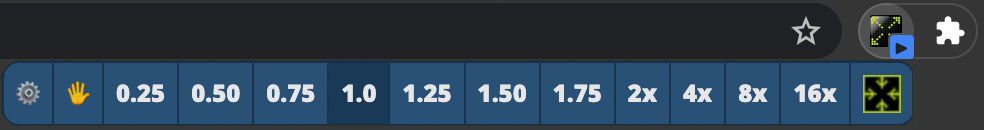
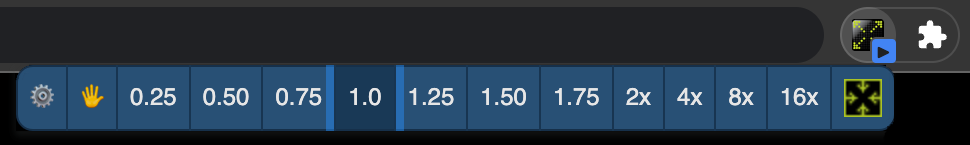
Prop for replacing mv2 with mv3
- Flipping default SETTING back to simple mode. Made "advanced mode" to enable non-core features of slipping and changing playback speeds.
Motivations:
  - Keep as simple to use as possible when upgrading v2 users.
 - Guidelines from Google is that Extensions should focus on one thing and it's called "video maximizer" so that's what it should primarily do.

diff --git a/src/options.html b/src/options.html
@@ -4,6 +4,7 @@
   <title>Universal Video Maximizer - Options</title>
   <meta charset="utf-8">
   <link href="chota.css" rel="stylesheet" type="text/css">
+  <link href="options.css" rel="stylesheet" type="text/css">
   <script src="options.js" type="module"></script>
 </head>
 <body class="dark">
@@ -13,16 +14,19 @@
 
   <div class="container" id="mainForm">
     <fieldset>
-      <legend>Use simplified behavior</legend>
+      <legend>Advanced playback features</legend>
       <div class="row col label">
-        <input checked id="useToggleZoomBehavior" name="useToggleZoomBehavior" type="checkbox">
-        <label for="useToggleZoomBehavior">
-          Use classic toggle-zoom behavior (removes the playback-speed feature)
+        <input class="toggle" checked id="useAdvancedFeatures" name="useAdvancedFeatures" type="checkbox">
+        <label for="useAdvancedFeatures">
+          Enable <span class="emphasis">ADVANCED</span> features (Experimental)
         </label>
+        <p>Some sites lose their playback controls when zoomed. Advanced features allow you to skip and change playback speed.</p>
+        <p>See the <a href="help.html" rel="noopener" target="_blank">Help ↗</a> page for more details about how to use advanced features.</p>
+        <p><img alt="screen shot" class="illustration" src="img/new_speed_control_bar.png"></p>
       </div>
     </fieldset>
 
-    <fieldset class="diableForSimpleChecked">
+    <fieldset class="diableForSimpleFeatures">
       <legend>Allow more access - whole site by default</legend>
       <div class="row col label">
         <input checked id="wholeDomainAccess" name="wholeDomainAccess" type="checkbox">
@@ -51,7 +55,7 @@
     </fieldset>
 
 
-    <fieldset class="diableForSimpleChecked">
+    <fieldset class="diableForSimpleFeatures">
       <legend>Allow full access to all sites by default</legend>
       <div class="row col label">
         <input checked id="allSitesAccess" name="allSitesAccess" type="checkbox">
@@ -70,7 +74,7 @@
       </div>
     </fieldset>
 
-    <fieldset class="diableForSimpleChecked">
+    <fieldset class="diableForSimpleFeatures">
       <legend>Playback skipping</legend>
       <div class="container padding-1">
         While Video Maximizer popup controls are displayed, you can use the arrow keys to skip playback.&nbsp;
@@ -120,7 +124,7 @@
       <!--        </div>-->
     </fieldset>
 
-    <fieldset class="diableForSimpleChecked">
+    <fieldset class="diableForSimpleFeatures">
       <legend>Speed controls only sites</legend>
       <div class="row col label">
         <label class="padding-1" for="nozoomlist">Sites that are already fullscreen, so VideoMax won't try to zoom

diff --git a/src/options.js b/src/options.js
@@ -92,14 +92,14 @@ const getTextNum = (elementId) /** @type number */ => {
  */
 const loadSettingsIntoFields = (settings) => {
   // load settings into page
-  setChecked("useToggleZoomBehavior", settings.useToggleZoomBehavior);
+  setChecked("useAdvancedFeatures", settings.useAdvancedFeatures);
   setTextNum("regSkipSeconds", settings.regSkipSeconds);
   setTextNum("longSkipSeconds", settings.longSkipSeconds);
   // setChecked("preportionalSkipTimes", settings.preportionalSkipTimes);
   setChecked("wholeDomainAccess", settings.wholeDomainAccess);
   setChecked("allSitesAccess", settings.allSitesAccess);
 
-  disabledIfOldZoom();
+  enableAdvanceFeaturesOptions();
 
   // list of no-zoom sites
   {
@@ -135,7 +135,7 @@ const loadSettingsIntoFields = (settings) => {
  */
 const saveFieldsIntoSettings = (settings) => {
   try {
-    settings.useToggleZoomBehavior = getChecked("useToggleZoomBehavior");
+    settings.useAdvancedFeatures = getChecked("useAdvancedFeatures");
     settings.regSkipSeconds        = getTextNum("regSkipSeconds");
     settings.longSkipSeconds       = getTextNum("longSkipSeconds");
     // settings.preportionalSkipTimes = getChecked("preportionalSkipTimes");
@@ -157,14 +157,14 @@ const save = async () => {
   }
 };
 
-const disabledIfOldZoom = () => {
-  const useToggleZoomBehavior = getChecked("useToggleZoomBehavior");
-  const disableFields         = document.getElementsByClassName("diableForSimpleChecked");
+const enableAdvanceFeaturesOptions = () => {
+  const useAdvancedFeatures = getChecked("useAdvancedFeatures");
+  const disableFields         = document.getElementsByClassName("diableForSimpleFeatures");
   for (const eachField of disableFields) {
-    if (useToggleZoomBehavior) {
-      eachField.classList.add("is-disabled");
-    } else {
+    if (useAdvancedFeatures) {
       eachField.classList.remove("is-disabled");
+    } else {
+      eachField.classList.add("is-disabled");
     }
   }
 };
@@ -195,11 +195,11 @@ ${userAgent}
         await save();
       });
 
-    document.getElementById("useToggleZoomBehavior")
+    document.getElementById("useAdvancedFeatures")
       .addEventListener("click", async (_e) => {
-        disabledIfOldZoom();
+        enableAdvanceFeaturesOptions();
         setTimeout(() => {
-          if (getChecked("useToggleZoomBehavior")) {
+          if (!getChecked("useAdvancedFeatures")) {
             alert(`
 This will remove the speed controls.
 

diff --git a/src/background.js b/src/background.js
@@ -7,7 +7,8 @@ import {
   DEFAULT_SETTINGS,
   DEFAULT_SPEED,
   domainToSiteWildcard,
-  getDomain, getManifestJson,
+  getDomain,
+  getManifestJson,
   getSettings,
   isPageExcluded,
   logerr,
@@ -422,8 +423,8 @@ async function setCurrentTabState(tabId, state, domain = "", speed = DEAULT_SPEE
     switch (state) {
       case "ZOOMING":
         trace(`setCurrentState "${state}"`);
-        const featureShowSpeedPopup = (await getSettingOldToggleZoomBehavior()) === false;
-        state                       = featureShowSpeedPopup ? "ZOOMED_SPEED" : "ZOOMED_NOSPEED";
+        const useAdvFeatures = await getSettingUseAdvFeatures();
+        state                = useAdvFeatures ? "ZOOMED_SPEED" : "ZOOMED_NOSPEED";
         break;
 
       case "ZOOMING_SPEED_ONLY":
@@ -838,10 +839,10 @@ const getSettingOldToggleZoomBehavior = async () => {
   try {
     const settings = await getSettings();
     trace("getFeatureShowZoomPopup settings:", JSON.stringify(settings, null, 2));
-    return (settings.useToggleZoomBehavior || DEFAULT_SETTINGS.useToggleZoomBehavior);
+    return (settings.useAdvancedFeatures || DEFAULT_SETTINGS.useAdvancedFeatures);
   } catch (err) {
     logerr(err);
-    return DEFAULT_SETTINGS.useToggleZoomBehavior;
+    return DEFAULT_SETTINGS.useAdvancedFeatures;
   }
 };
 
@@ -874,13 +875,13 @@ async function showUpgradePageIfNeeded() {
       return;
     }
 
-    const url = chrome?.runtime?.getURL("help.html") || "";
-    if (!url) {
-      return;
-    }
+    await chrome.tabs.create({
+      url:    chrome?.runtime?.getURL("options.html"),
+      active: false,
+    });
 
     await chrome.tabs.create({
-      url,
+      url:    chrome?.runtime?.getURL("help.html"),
       active: false,
     });
   } catch (err) {
@@ -895,7 +896,6 @@ async function showUpgradePageIfNeeded() {
  * @returns {Promise<boolean>}
  */
 async function toggleZoomState(tabId, domain) {
-  debugger;
   const state = await getCurrentTabState(tabId);
   if (!isActiveState(state)) {
     await DoZoom(tabId, state, domain);

diff --git a/src/help.html b/src/help.html
@@ -17,26 +17,14 @@
   <section class="padding-1">
     New features in this Beta update:
     <ul>
+      <li><span class="emphasis">NEW</span> Prepare for official release: Default for speed controls off by default.
+        <a href="options.html" rel="noopener" target="_blank">Options ↗</a></li>
+    </ul>
+    <ul>
       <li>Arrow keys enable video rewind/forward skipping</li>
       <li>Improved speed playback</li>
       <li>Optional extra permissions that make speed controls work on almost every site</li>
     </ul>
-  </section>
-
-  <hr/>
-  <h3>Chrome Update Issue</h3>
-  <section class="padding-1">
-    <p>There is currently a issue with Chrome that impacts ALL extensions. Right after an update, extensions can <span
-        class="emphasis">just stop working.</span> There are two user workaround.</p>
-    <p>The first is to restart Chrome.</p>
-    <p>The second is to go to <code>Manage Extensions</code> under the
-      puzzle piece in the Chrome toolbar. Then enable <code>Developer mode</code> and manually reload the extension.
-    </p>
-    <p class="is-center"><img alt="how to manually reload an extension" src="img/chrome_update_bug.png"><br/></p>
-    <p>Hopefully this will be fixed soon and only seems to show up after the extension is modified.
-      See
-      <a href="https://bugs.chromium.org/p/chromium/issues/detail?id=1271154" rel="noopener" target="_blank">Issue
-        #1271154 ↗</a> for more information. But this trick is handy for all extensions until it's resolved.</p>
   </section>
 
   <hr/>
@@ -187,7 +175,7 @@
       (The technical reason has to do with embedding iframes that have cross-domain references.)</p>
     <p>The default settings for Video Maximizer is maximium privacy, if you come across a site that you use that
       requires more permissions to work, open a bug and I'll investigate. See the Options page for more choices to grant
-    this extension more permissions.</p>
+      this extension more permissions.</p>
 
     <br/>
 

diff --git a/src/options.css b/src/options.css
@@ -1,0 +1,61 @@
+.toggle {
+  position: absolute;
+  cursor: pointer;
+  opacity: 0;
+}
+
+.toggle + label {
+  --toggle-color: #FFF;
+  --toggle-bg-color: #C6D0CC;
+  position: relative;
+  padding-left: 5rem;
+  line-height: 2.5rem;
+  cursor: pointer;
+}
+
+/* The toggle container */
+.toggle + label:before {
+  content: "";
+  box-sizing: border-box;
+  position: absolute;
+  left: 0;
+  width: 4.5rem;
+  height: 2.5rem;
+  border: 1px solid var(--toggle-color);
+  border-radius: 1.25rem;
+  background-color: var(--toggle-bg-color);
+  transition: background-color 200ms;
+}
+
+/* The toggle ball */
+.toggle + label:after {
+  content: "";
+  position: absolute;
+  top: 0;
+  bottom: 0;
+  left: 0.25rem;
+  width: 2rem;
+  height: 2rem;
+  margin: auto;
+  transform: translate(0, 0);
+  border-radius: 50%;
+  background-color: var(--toggle-color);
+  cursor: pointer;
+  transition: transform 200ms;
+}
+
+/* The active styling */
+.toggle:checked + label {
+  --toggle-color: #FFFFFF;
+  --toggle-bg-color: #20b776;
+}
+
+.toggle:checked + label:after {
+  transform: translate(2rem, 0);
+}
+
+.is-disabled,
+.is-disabled:hover {
+  opacity: 0.4;
+  cursor: not-allowed;
+}

diff --git a/src/common.js b/src/common.js
@@ -38,7 +38,7 @@ export const trace = (...args) => {
 export const SETTINGS_STORAGE_KEY = "settingsJson";
 
 // bumping this will cause the notification to show again. keep it pinned unless some major feature
-export const BETA_UPDATE_NOTIFICATION_VERISON = "79"; // will get out of sync. bump to show notification
+export const BETA_UPDATE_NOTIFICATION_VERISON = "84"; // will get out of sync. bump to show notification
 
 
 /* these are sites that are already zoomed, but playback speed is kind of nice */
@@ -51,7 +51,7 @@ export const DEFAULT_ZOOM_EXCLUSION_LIST = "amazon," + "hbomax," + "play.max," +
  */
 export const DEFAULT_SETTINGS = {
   lastBetaVersion:           "0", // number as string used to show initial "help" (also for major releases)
-  useToggleZoomBehavior:     false, // true
+  useAdvancedFeatures:     false, // true
   spacebarTogglesPlayback:   true,
   regSkipSeconds:            5,
   longSkipSeconds:           20,

diff --git a/@types/index.d.ts b/@types/index.d.ts
@@ -7,7 +7,7 @@
 
 type SettingsType = {
   lastBetaVersion: string,
-  useToggleZoomBehavior: boolean,
+  useAdvancedFeatures: boolean,
   spacebarTogglesPlayback: boolean,
   regSkipSeconds: number,
   longSkipSeconds: number,

diff --git a/src/chota.css b/src/chota.css
@@ -1454,8 +1454,3 @@ li button.del-btn-sel {
   font-style: italic;
 }
 
-.is-disabled,
-.is-disabled:hover {
-  opacity: 0.4;
-  cursor: not-allowed;
-}
